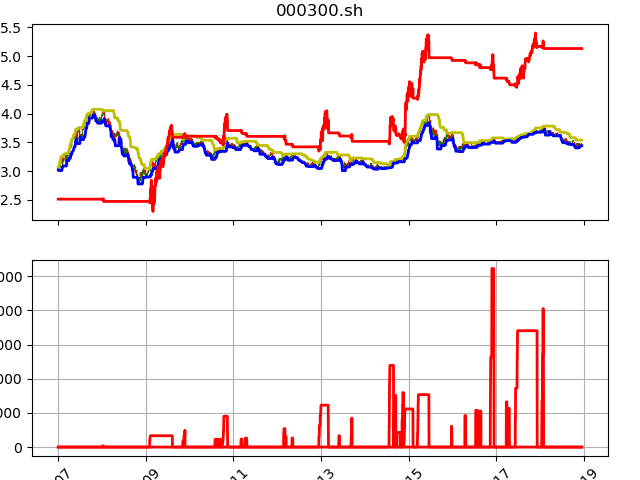
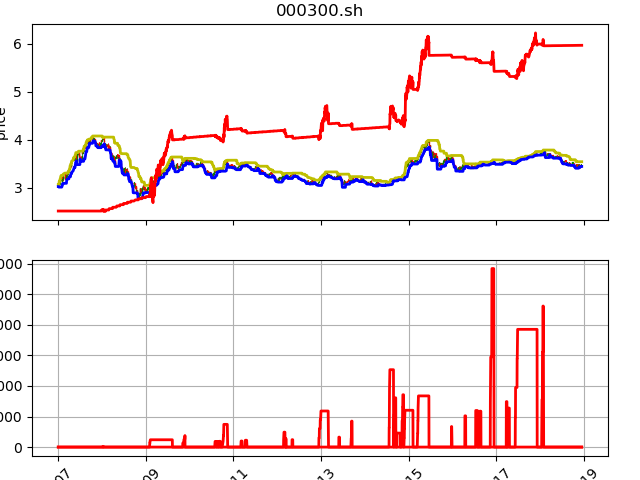
turtle 5520-5.

diff --git a/turtle.py b/turtle.py
@@ -11,7 +11,7 @@ import math
 from stockdata import StockDataSet, parse_stock_data
 from account import StockAccount
 
-fixed_invest = 0 # 3000
+fixed_invest = 3000
 init_invest  = 100000
 
 class MovingAverage:
